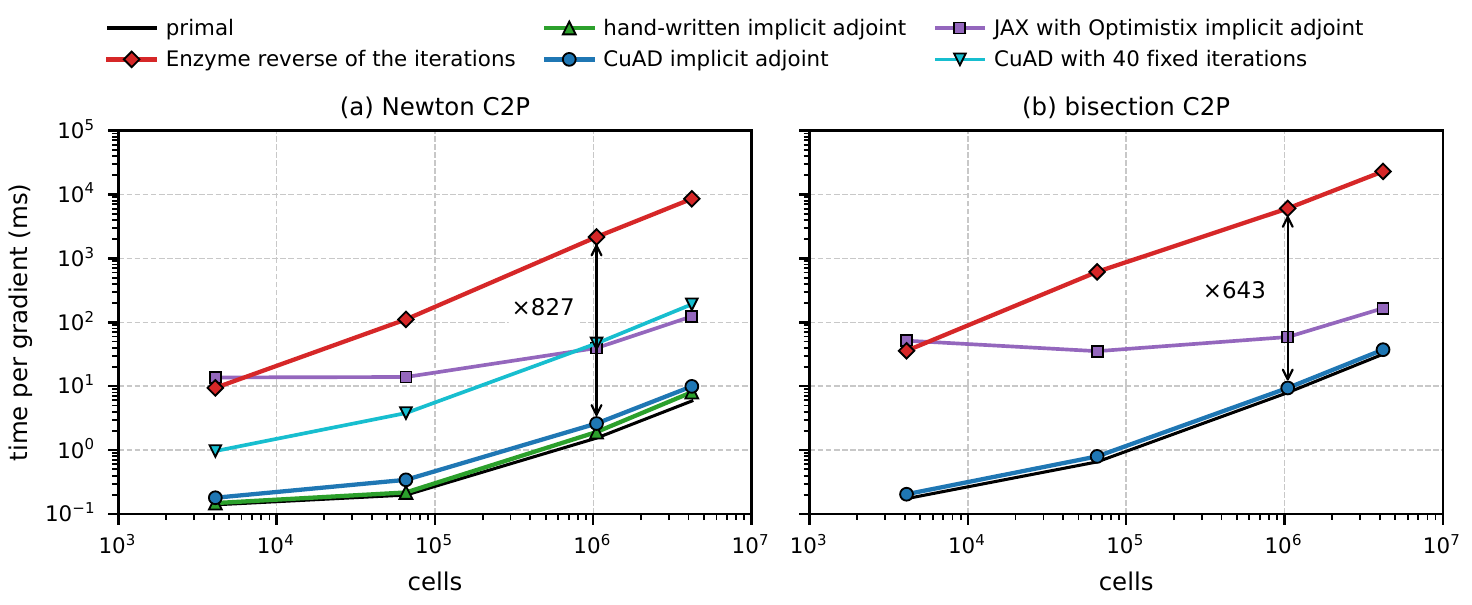
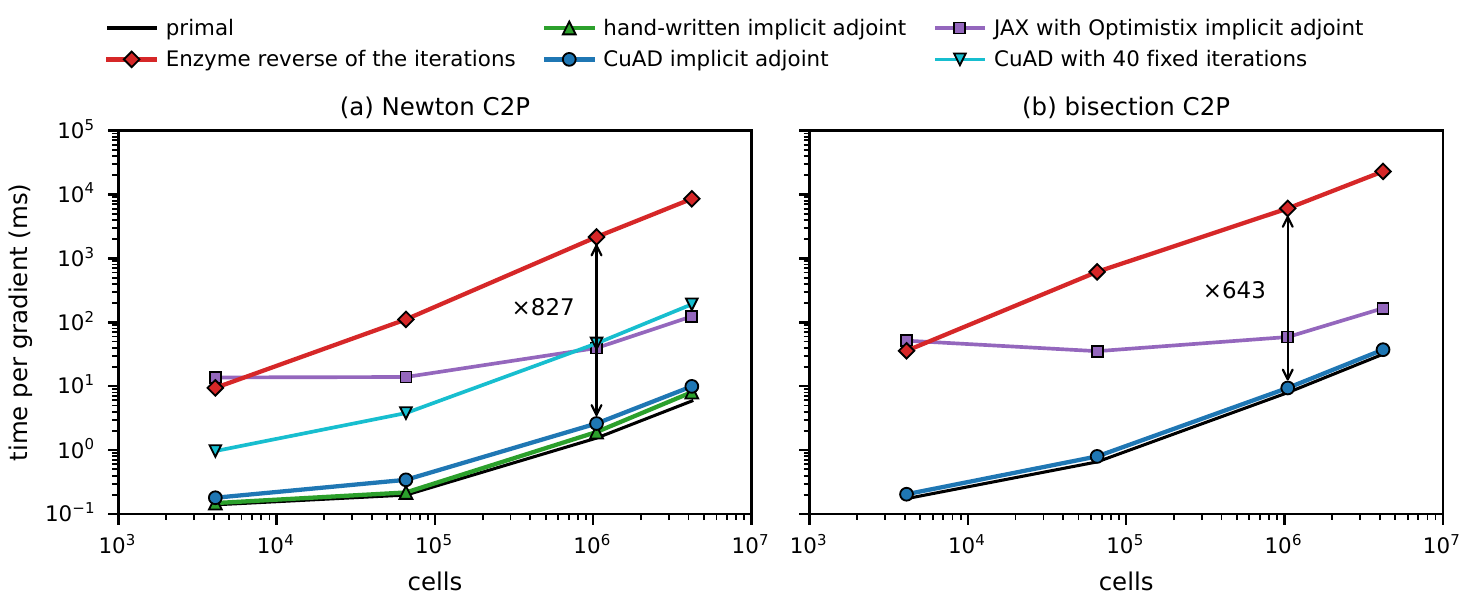
research/srhd: figures without grid lines; legend of the bisection figure below the curves

Changed region(s): [[0.75, 0.6248, 0.7812, 0.6545], [0.6562, 0.6248, 0.6875, 0.6545], [0.2812, 0.6248, 0.3125, 0.6545]]

diff --git a/research/srhd/make_figures.py b/research/srhd/make_figures.py
@@ -14,7 +14,7 @@ out = Path(__file__).parent / 'out'
 figs = Path(__file__).resolve().parents[2] / 'manuscript' / 'implicit_srhd' / 'figures'
 figs.mkdir(parents=True, exist_ok=True)
 
-# Style of the figures in APL Computational Physics articles: sans-serif text, closed black frame, dashed light grid,
+# Style of the figures in APL Computational Physics articles: sans-serif text, closed black frame, no grid,
 # coloured lines with black-edged markers, centred panel titles, framed legends inside the axes.
 INK, MUTED, GRID, AXIS = '#000000', '#555555', '#c8c8c8', '#000000'
 plt.rcParams.update({
@@ -25,7 +25,7 @@ plt.rcParams.update({
     'xtick.labelsize': 7, 'ytick.labelsize': 7,
     'text.color': INK, 'axes.labelcolor': INK, 'xtick.color': AXIS, 'ytick.color': AXIS,
     'axes.edgecolor': AXIS, 'axes.linewidth': 0.8, 'axes.spines.top': True, 'axes.spines.right': True,
-    'axes.grid': True, 'axes.grid.which': 'major', 'grid.color': GRID, 'grid.linewidth': 0.5, 'grid.linestyle': '--',
+    'axes.grid': False, 'axes.grid.which': 'major', 'grid.color': GRID, 'grid.linewidth': 0.5, 'grid.linestyle': '--',
     'axes.axisbelow': True,
     'lines.linewidth': 1.2, 'lines.markersize': 4.5, 'lines.markeredgecolor': 'black', 'lines.markeredgewidth': 0.6,
     'xtick.direction': 'out', 'ytick.direction': 'out',
@@ -223,7 +223,7 @@ if __name__ == '__main__' or __name__ == 'make_figures':
             title(ax, letter, ttl); ax.set_xlabel('$x$'); ax.set_ylabel(r'$\rho$')
             snap(ax, 'x', (0, 1)); snap(ax, 'y', (0, 1.05 * float(np.max(z['exact'][:, 0]))))
             if name == 'MM2':   # the thin shell, magnified
-                ins = inset_axes(ax, width='34%', height='52%', loc='upper left', borderpad=1.0,
+                ins = inset_axes(ax, width='34%', height='48%', loc='upper left', borderpad=1.9,
                                  bbox_to_anchor=(0.2, 0, 1, 1), bbox_transform=ax.transAxes)
                 ins.plot(z['x'], z['exact'][:, 0], '-', color=INK, lw=0.9)
                 ins.plot(z['x'], z['P'][:n], '-', color=C['cuad'], lw=1.2)
@@ -231,8 +231,7 @@ if __name__ == '__main__' or __name__ == 'make_figures':
                 ins.tick_params(labelsize=6); ins.grid(False)
                 for s in ('top', 'right'):
                     ins.spines[s].set_visible(True)
-                ins.set_title('thin shell', fontsize=6.5, loc='center', pad=2, color=MUTED,
-                              bbox=dict(fc='white', ec='none', pad=0.6))
+                ins.set_title('thin shell', fontsize=6.5, loc='center', pad=2, color=MUTED)
                 ax.add_patch(plt.Rectangle((0.875, 0), 0.03, 11.4, fc='none', ec=MUTED, lw=0.6, ls='--'))
     top_legend(fig, axs, 2)
     save(fig, 'fig_riemann.pdf')

diff --git a/research/srhd/make_schematics.py b/research/srhd/make_schematics.py
@@ -70,7 +70,7 @@ ax.plot(a, np.zeros_like(a), '-', color=C['enzyme'], lw=1.8, label='differentiat
 ax.fill_between(a, dt, 0, color=C['enzyme'], alpha=0.07, lw=0)
 mf.title(ax, 'b', 'derivative')
 ax.set_xlabel('$a$'); ax.set_ylabel(r'$dt/da$')
-mf.snap(ax, 'x', (1, 3)); mf.snap(ax, 'y', (-0.4, 0.05))
+mf.snap(ax, 'x', (1, 3)); mf.snap(ax, 'y', (-0.6, 0.05))
 ax.legend(loc='lower right')
 ax.text(2.0, -0.055, 'derivative missed by the differentiated bisection', fontsize=6.8, color=C['enzyme'],
         ha='center', va='center')
